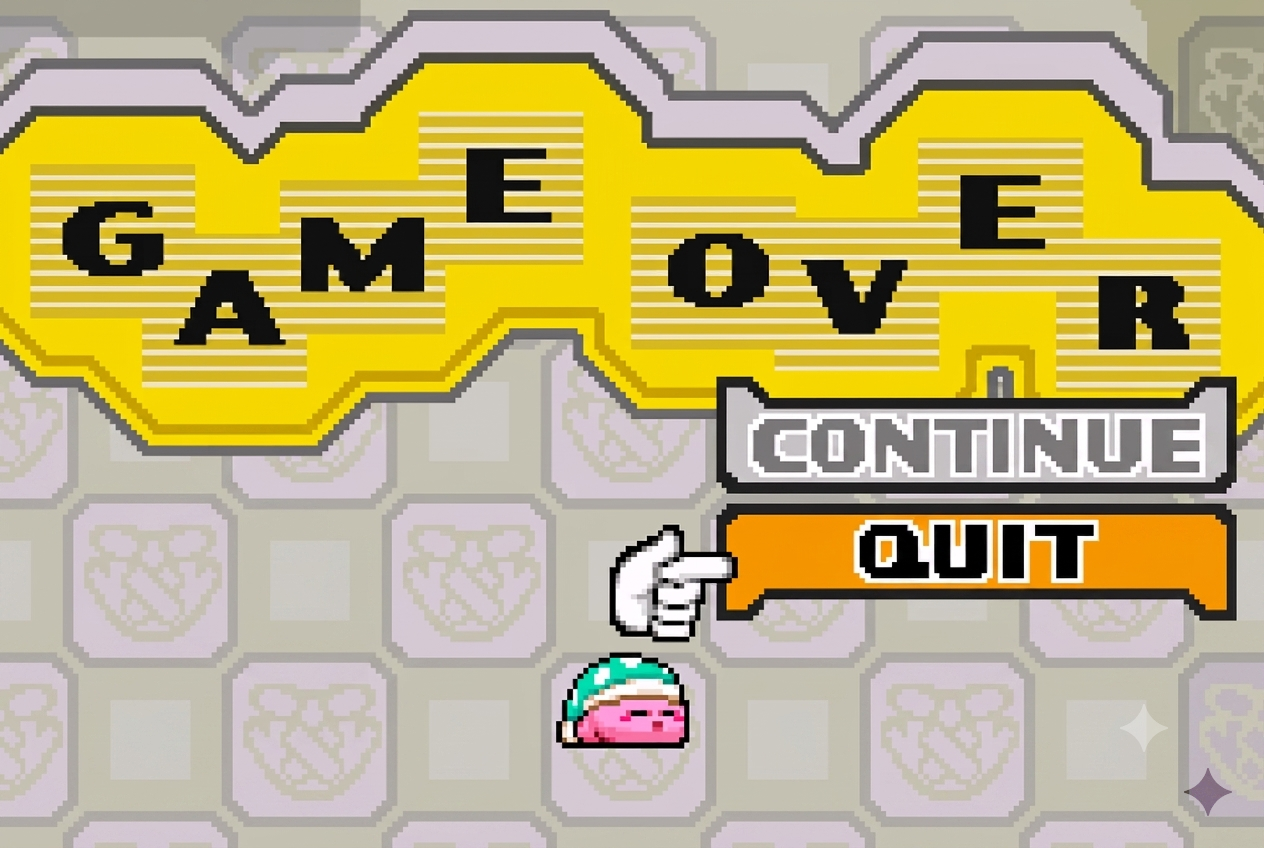
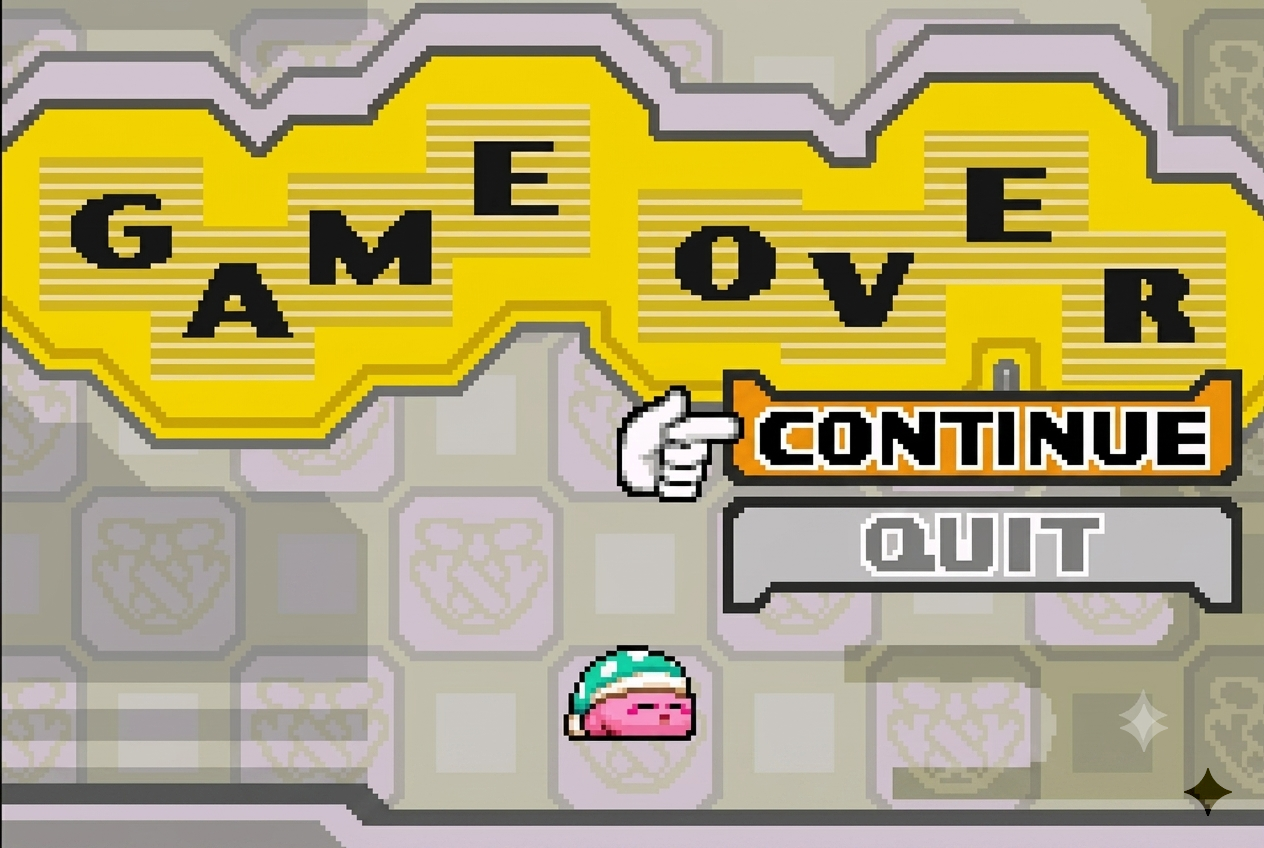
gameover

diff --git a/gamescene.cpp b/gamescene.cpp
@@ -37,9 +37,10 @@ GameScene::GameScene(Game *g) : QGraphicsScene(g), game(g) {
     sparkBoard = loadAndScale(":/Dataset/Kirby_spark/Kirby_spark_board.png");
     cutterBoard = loadAndScale(":/Dataset/Kirby_cutter/cs.png");
 
-    // Game Over 畫面
-    gameOverContinuePix = loadPix(":/Dataset/background/game_over_continue.png");
-    gameOverQuitPix     = loadPix(":/Dataset/background/game_over_quit.png");
+
+    // Game Over 畫面 (對應你的新圖檔)
+    gameOverContinuePix = loadPix(":/Dataset/background/gameover(1).png");
+    gameOverQuitPix     = loadPix(":/Dataset/background/gameover(2).png");
 }
 
 GameScene::~GameScene() {}
@@ -1005,33 +1006,62 @@ void GameScene::showMenuScreen() {
 // ============ Game Over 畫面 ============
 void GameScene::showGameOverScreen() {
     clearStage();
-    setSceneRect(0, 0, WINDOW_WIDTH, WINDOW_HEIGHT);
-    gameOverSelection = 0; // 預設選 Continue
 
-    QPixmap goPix = gameOverContinuePix.scaled(WINDOW_WIDTH, WINDOW_HEIGHT, Qt::IgnoreAspectRatio);
+    // 1. 限制場景的物理範圍
+    setSceneRect(0, 0, WINDOW_WIDTH, WINDOW_HEIGHT);
+
+    // 2. 徹底重置相機鏡頭 (解決跑圖的關鍵)
+    if (!views().isEmpty()) {
+        QGraphicsView *view = views().first();
+        view->setSceneRect(0, 0, WINDOW_WIDTH, WINDOW_HEIGHT); // 強制 View 也套用此範圍
+        view->resetTransform(); // 重置任何可能的變形或位移
+        view->centerOn(WINDOW_WIDTH / 2.0, WINDOW_HEIGHT / 2.0); // 鏡頭精準對準畫面的正中央
+    }
+
+    gameOverSelection = 0; // 預設為 gameover(1)
+
+    // 3. 載入並拉伸圖片
+    QPixmap goPix = loadPix(":/Dataset/background/gameover(1).png");
+    goPix = goPix.scaled(WINDOW_WIDTH, WINDOW_HEIGHT, Qt::IgnoreAspectRatio, Qt::SmoothTransformation);
+
     gameOverBg = new QGraphicsPixmapItem(goPix);
-    gameOverBg->setPos(0, 0);
-    gameOverBg->setZValue(0);
+    gameOverBg->setPos(0, 0); // 絕對綁定在 0,0
+    gameOverBg->setZValue(999); // 設為 999 確保圖層在最上方，不會被遮擋
     addItem(gameOverBg);
 }
 
-void GameScene::toggleGameOverSelection() {
-    gameOverSelection = 1 - gameOverSelection;
+void GameScene::changeGameOverSelection(int key) {
+    // 判斷按鍵並切換索引
+    if (key == Qt::Key_Up) {
+        gameOverSelection = 0;
+    } else if (key == Qt::Key_Down) {
+        gameOverSelection = 1;
+    }
+
+    // 更新圖片
     if (gameOverBg) {
         QPixmap pix = (gameOverSelection == 0) ? gameOverContinuePix : gameOverQuitPix;
-        gameOverBg->setPixmap(pix.scaled(WINDOW_WIDTH, WINDOW_HEIGHT, Qt::IgnoreAspectRatio));
+        gameOverBg->setPixmap(pix.scaled(WINDOW_WIDTH, WINDOW_HEIGHT, Qt::IgnoreAspectRatio, Qt::SmoothTransformation));
+
+        // 💡 強制確保位置依舊鎖死在 0,0
+        gameOverBg->setPos(0, 0);
     }
 }
-
 void GameScene::confirmGameOverSelection(Game *g) {
     if (gameOverSelection == 0) {
-        // Continue → 回到 Start Menu
+        // 選擇 gameover(1) 按 Enter -> 回到 stage1 且卡比恢復滿血滿命狀態
+        tomatoCollected = false;
+        oneUpCollected = false;
+
+        // 💡 呼叫 startGame()。因為上面執行過 clearStage()，
+        // startGame 內部重新 loadStage(1) 時，會幫你自動生成一隻全新、滿血滿命的卡比！
+        g->startGame();
+    }
+    else {
+        // 選擇 gameover(2) 按 Enter -> 回到 start 主選單畫面
         tomatoCollected = false;
         oneUpCollected = false;
         g->restartFromMenu();
-    } else {
-        // Quit → 關閉遊戲
-        qApp->quit();
     }
 }
 

diff --git a/game.cpp b/game.cpp
@@ -40,13 +40,15 @@ void Game::keyPressEvent(QKeyEvent *event) {
 
     // Game Over 畫面按鍵處理
     if (currentState == STATE_GAME_OVER) {
+        // 按上下鍵：強制切換絕對位置
         if (event->key() == Qt::Key_Up || event->key() == Qt::Key_Down) {
-            scene->toggleGameOverSelection();
+            scene->changeGameOverSelection(event->key());
         }
-        if (event->key() == Qt::Key_Return || event->key() == Qt::Key_X) {
+        // 按 Enter 或 X 鍵：確認目前的選擇
+        if (event->key() == Qt::Key_Return || event->key() == Qt::Key_Enter || event->key() == Qt::Key_X) {
             scene->confirmGameOverSelection(this);
         }
-        return;
+        return; // 攔截按鍵，不讓卡比在背景亂動
     }
 
     // Clear 畫面按任意鍵回選單

diff --git a/gamescene.h b/gamescene.h
@@ -39,7 +39,7 @@ public:
     void showGameOverScreen();
     void showClearScreen();
     void advanceClearScreen(Game *game);
-    void toggleGameOverSelection();
+    void changeGameOverSelection(int key);
     void confirmGameOverSelection(Game *game);
 
 private:
